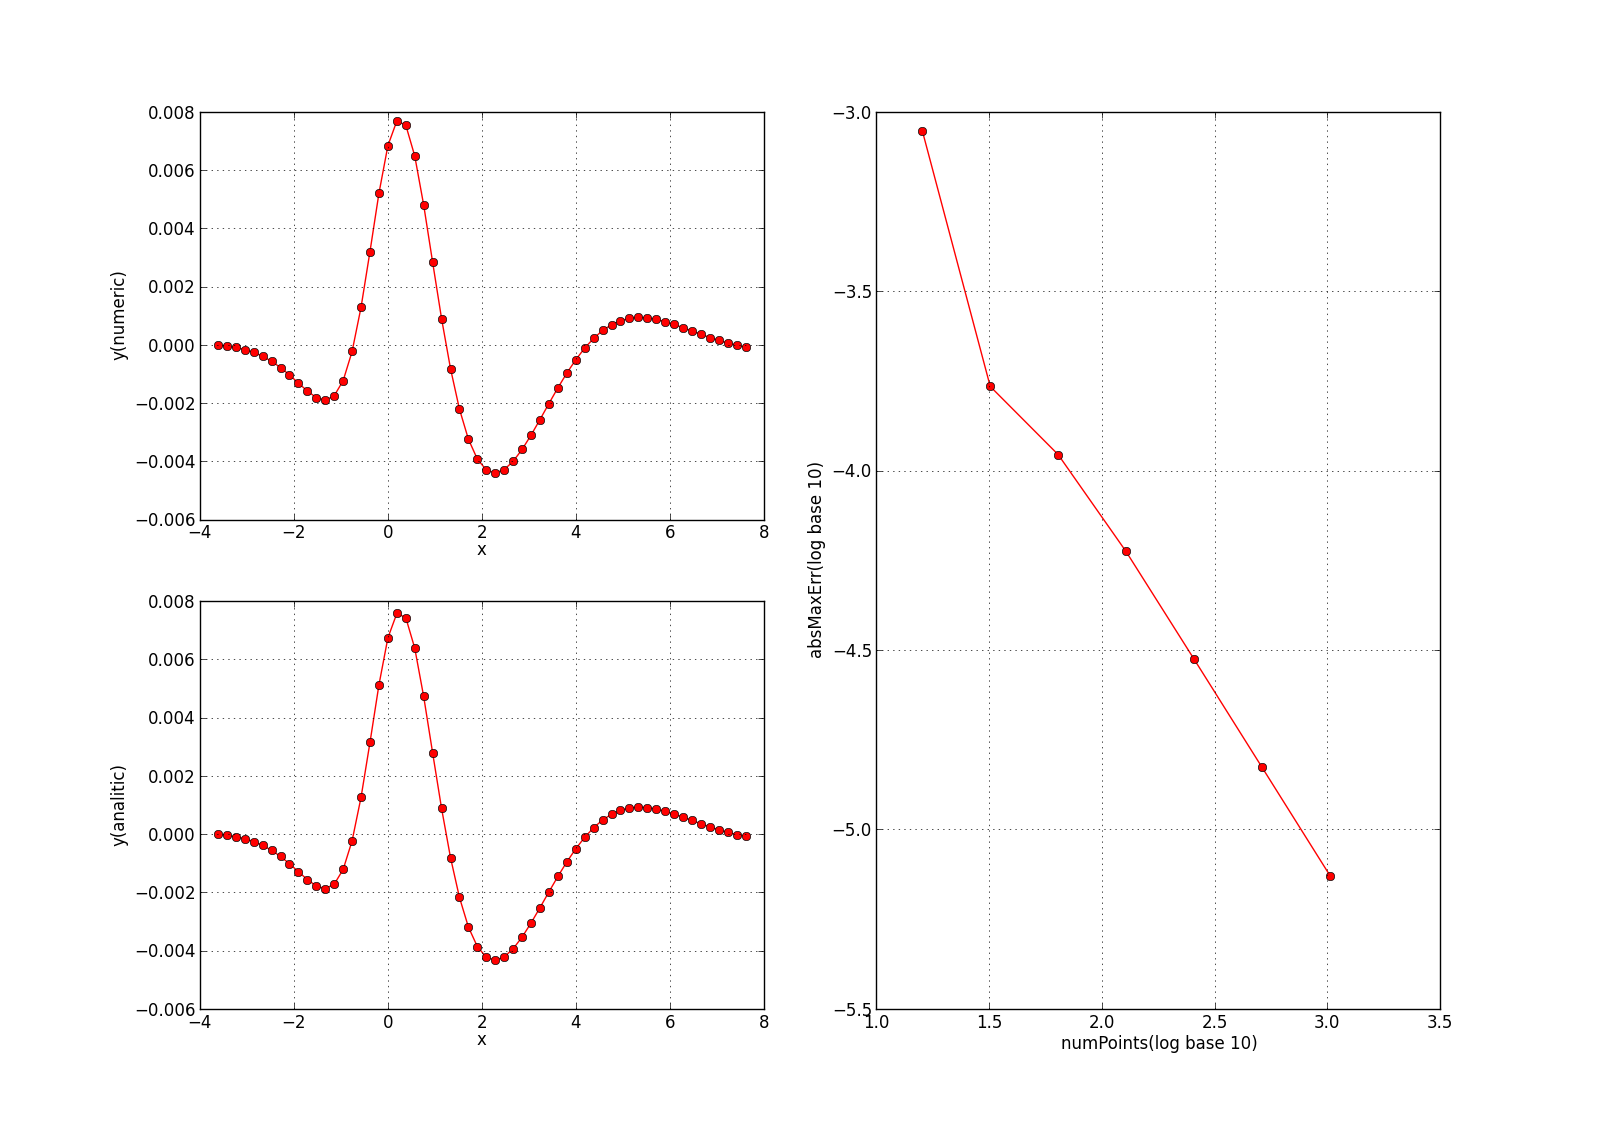
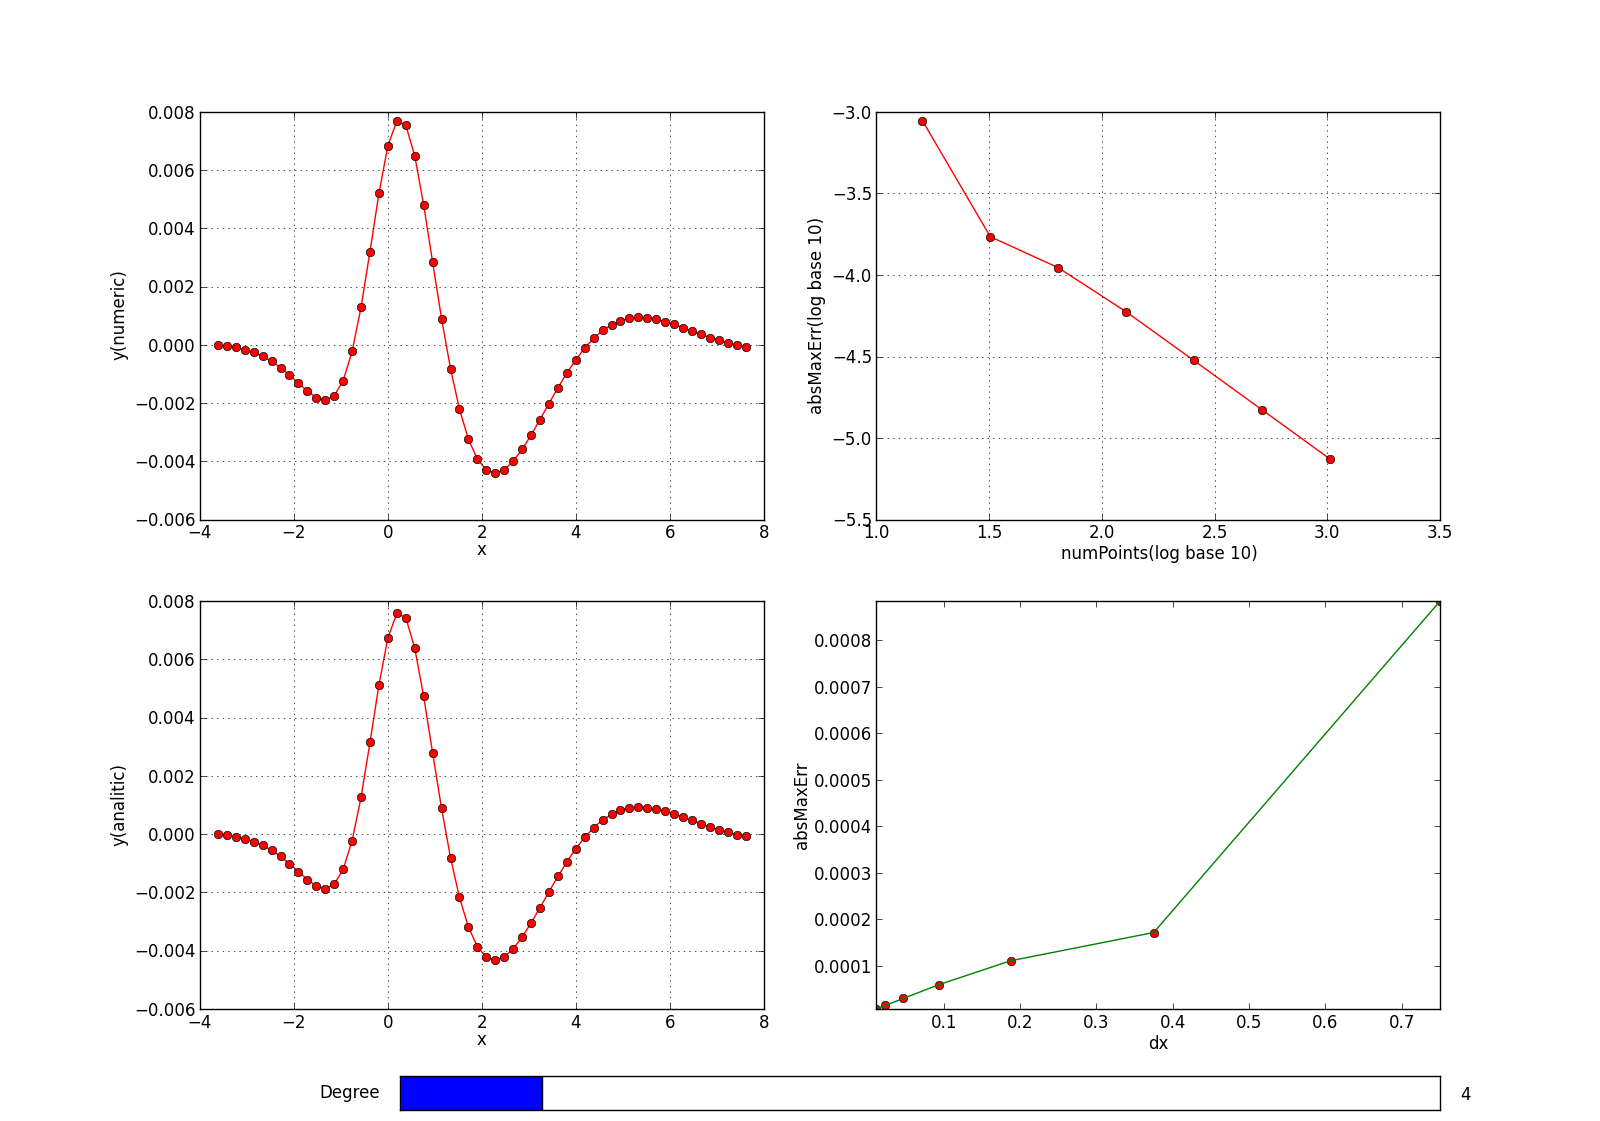
polyfit and degree slider

diff --git a/prac1.py b/prac1.py
@@ -2,6 +2,37 @@ import os, math
 import numpy as np
 import matplotlib.pyplot as plt
 import scipy.misc 
+from matplotlib.widgets import Slider
+
+
+
+class DiscreteSlider(Slider):
+    """A matplotlib slider widget with discrete steps."""
+
+    def set_val(self, val):
+        discrete_val = int(val)
+        # We can't just call Slider.set_val(self, discrete_val), because this 
+        # will prevent the slider from updating properly (it will get stuck at
+        # the first step and not "slide"). Instead, we'll keep track of the
+        # the continuous value as self.val and pass in the discrete value to
+        # everything else.
+        xy = self.poly.xy
+        xy[2] = discrete_val, 1
+        xy[3] = discrete_val, 0
+        self.poly.xy = xy
+        self.valtext.set_text(self.valfmt % discrete_val)
+        if self.drawon: 
+            self.ax.figure.canvas.draw()
+        self.val = val
+        if not self.eventson: 
+            return
+        for cid, func in self.observers.items():
+            func(discrete_val)
+
+
+
+
+
 
 
 a = -4
@@ -78,15 +109,21 @@ derivFunc = maxDif
 #ENDCONFIG
 
 
+#ax1 = plt.subplot(221)
+#ax2 = plt.subplot(223)
+#ax3 = plt.subplot(122)
 ax1 = plt.subplot(221)
 ax2 = plt.subplot(223)
-ax3 = plt.subplot(122)
+ax3 = plt.subplot(222)
+ax4 = plt.subplot(224)
 ax1.set_xlabel("x")
 ax2.set_xlabel("x")
 ax1.set_ylabel("y(numeric)")
 ax2.set_ylabel("y(analitic)")
 ax3.set_xlabel("numPoints(log base %d)" % baseLog)
 ax3.set_ylabel("absMaxErr(log base %d)" % baseLog)
+ax4.set_xlabel("dx")
+ax4.set_ylabel("absMaxErr")
 
 ax1.grid(True)
 ax2.grid(True)
@@ -97,8 +134,11 @@ npArray = [16,32,64,128,256,512,1028]
 #xerror=np.log(npArray, baseLog)
 xerror = []
 yerror=[]
+dxe = []
+ye = []
 for numPoints in [16,32,64,128,256,512,1028]:
 	xerror.append(math.log(numPoints, baseLog))
+	dxe.append(getDx(numPoints))
 	if(numPoints==64):
 		res = derivFunc(numPoints, True)
 		#print("x=")
@@ -110,11 +150,55 @@ for numPoints in [16,32,64,128,256,512,1028]:
 		res = derivFunc(numPoints)
 		yval = res
 	yerror.append(math.log(yval, baseLog))
+	ye.append(yval)
 print("polyfit coef a(n), a(n-1), ..a(0) in polynom a(n) * x**n + .. a(1)x + a(0)")
-print("degree 1")
+print("for log NumPoints and log AbsMaxErr:  degree 1")
 print(np.polyfit(xerror,yerror,1))
 
+
 ax3.plot(xerror, yerror,  marker='o', linestyle='-', color="r")
+ax4.plot(dxe, ye, "ro")
+lpolyax4, = ax4.plot(dxe,ye, "g-")
+
+def drawPlot4(m):
+	c = np.polyfit(dxe,ye,m)
+	print("polyfit coef a(n), a(n-1), ..a(0) in polynom a(n) * x**n + .. a(1)x + a(0)")
+	print("for dx and AbsMaxErr:  degree %d" % m)
+	print(c)
+	polyCurve = np.poly1d(c)
+	ty = polyCurve(dxe) #teoretic y
+	lpolyax4.set_ydata(ty)
+	ax4.relim()
+	ax4.autoscale_view(True,True,True)
+	plt.draw()
+
+
+varHash = {'m':1} # I have to keep track of the current slider value in order not to update if value is not changing
+	#I want a discrete slider so several values of the slider will be converted to the same integer value
+	#I have to use the hash because m is changed in the listener function and m variable would be local to this function
+	#I don't use a global variable m. In python 3 there is the nonlocal statement which causes the listed identifiers to refer to previously bound variables in the nearest enclosing scope.
+drawPlot4(1)	
+axSlider = plt.axes([0.25, 0.01, 0.65, 0.03], axisbg='white')
+	#mSlider =  Slider(axSlider, 'Degree', 1, 23, valinit=1, valfmt='%d')#max degree 23
+	#the difference in using Slider or DiscreteSlider is only in the visual update of the slider bar
+	#if discrete it will update only with portions corresponding to 1, I still have to keep track of the value
+	#because the actual value of slider.val will always be the float
+mSlider =  DiscreteSlider(axSlider, 'Degree', 1, 23, valinit=1, valfmt='%d')#max degree 23
+
+def sliderChanged(val):
+		print("SLIDER CHANGED EVENT " + str(val))
+		intVal = int(val)
+		#I don't want an update if values are equal (as integers)
+		if(intVal!=varHash["m"]):
+			print("Integer Value of slider CHANGED set slider to %d" % intVal)
+			varHash["m"] = intVal
+			drawPlot4(intVal)
+		else:
+			print("BUT integer VALUE did NOT change")
+
+mSlider.on_changed(sliderChanged) 	
+
+
 
 plt.draw()
 plt.show()
